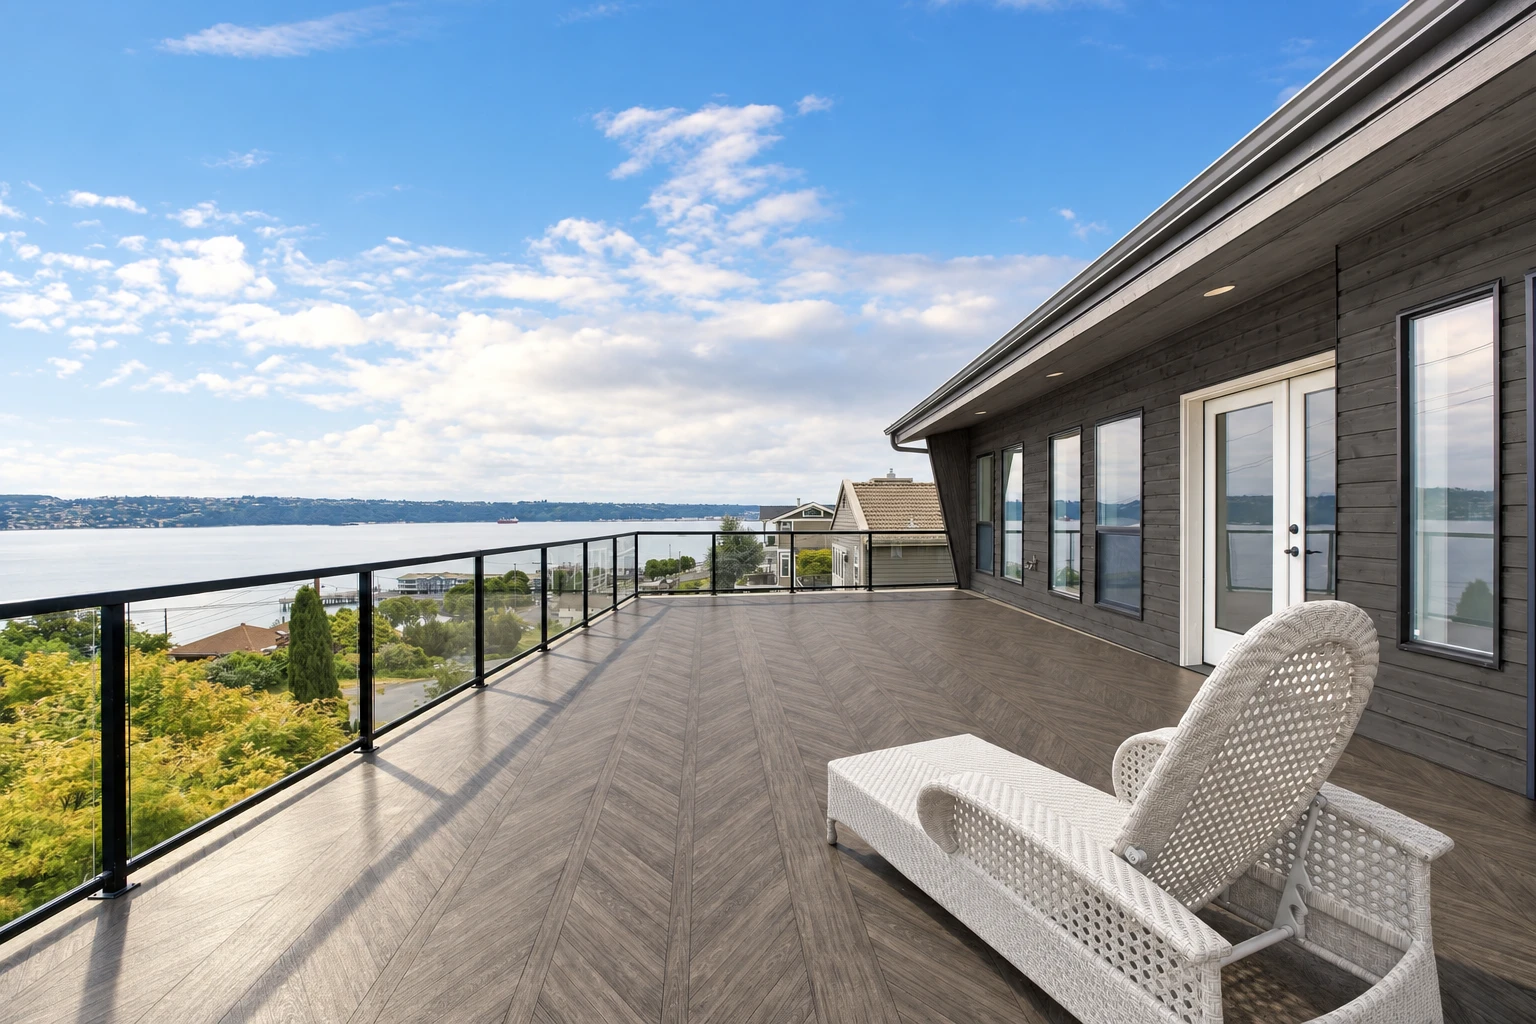
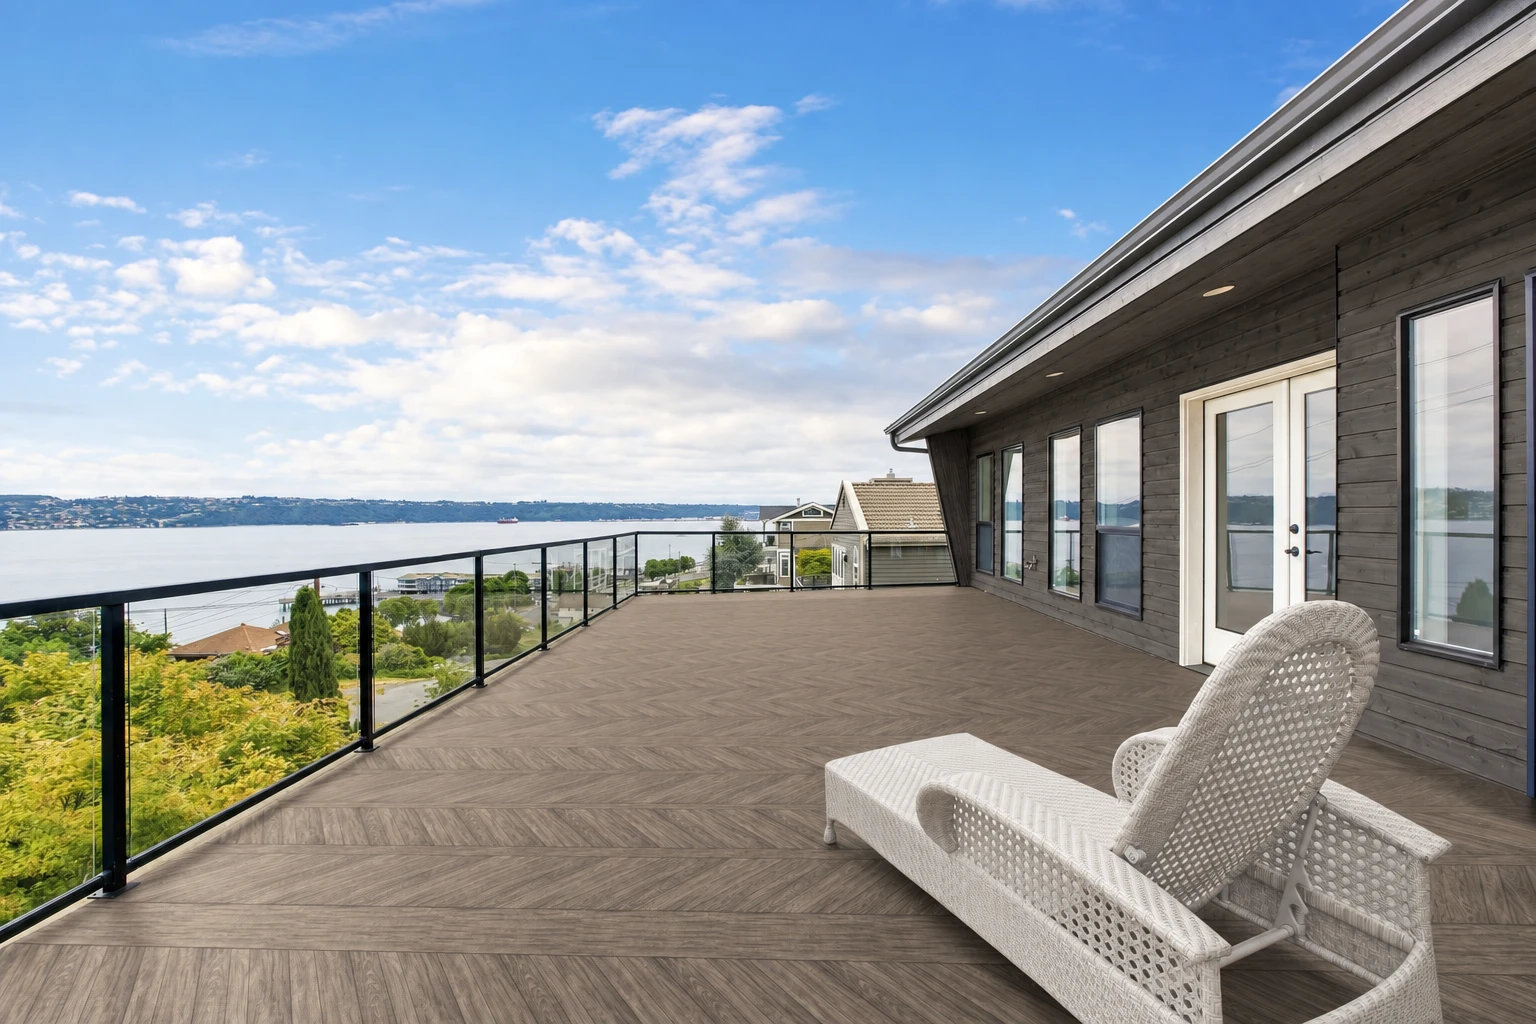
Oceanview and Glass rail woodgrains: planks follow the deck edges, matte finish
Per Mike: the pattern's perspective did not match both sides of the
deck, and the wood read as glossy. The floor calibration for these two
decks now derives the horizon from the deck edges' own vanishing point
(railing base and house wall for Oceanview, door track and front
railing for Glass rail), so the planks run parallel to both long edges
and converge where the edges do. Scale is anchored to the loungers
(6.5 ft), which also lands the camera height where a real estate shot
sits (4.8 ft and 3.6 ft). The relight prompt now asks for a matte,
embossed finish with no reflections and no added shadows.

diff --git a/src/config/stockCombos.ts b/src/config/stockCombos.ts
@@ -24,34 +24,34 @@ export const STOCK_COMBOS: Record<string, string> = {
   "backyard__speckled-stone-tan": "59fc5194",
   "backyard__urban-mist": "87d01fe4",
   "backyard__walnut": "6f6d2203",
-  "glassrail__boardwalk": "bd0bb81e",
-  "glassrail__driftwood": "cf025a2e",
+  "glassrail__boardwalk": "672c8a4b",
+  "glassrail__driftwood": "994d7349",
   "glassrail__granite-brown": "83e8ed15",
   "glassrail__granite-grey": "971dc38d",
   "glassrail__granite-silver": "a16ae4ee",
   "glassrail__granite-tan": "9b59c7d1",
-  "glassrail__hansberry": "dbf5072a",
-  "glassrail__ipe": "fd1940a9",
+  "glassrail__hansberry": "3dce68b8",
+  "glassrail__ipe": "b64adb77",
   "glassrail__speckled-stone-brown": "46c3ae1d",
   "glassrail__speckled-stone-grey": "57e46e3b",
   "glassrail__speckled-stone-silver": "31f2c8c2",
   "glassrail__speckled-stone-tan": "d1721dc4",
   "glassrail__urban-mist": "b2dc6d6e",
-  "glassrail__walnut": "58845875",
-  "lakeview__boardwalk": "cc9259db",
-  "lakeview__driftwood": "e62095ad",
+  "glassrail__walnut": "63dbccd6",
+  "lakeview__boardwalk": "65ba4a8c",
+  "lakeview__driftwood": "193bfff9",
   "lakeview__granite-brown": "41790e18",
   "lakeview__granite-grey": "85b632b1",
   "lakeview__granite-silver": "441a3a9b",
   "lakeview__granite-tan": "9da43966",
-  "lakeview__hansberry": "67bac585",
-  "lakeview__ipe": "88759edc",
+  "lakeview__hansberry": "c07c6b0a",
+  "lakeview__ipe": "8d7fe7b7",
   "lakeview__speckled-stone-brown": "4d1c6c58",
   "lakeview__speckled-stone-grey": "fd4ea3bb",
   "lakeview__speckled-stone-silver": "04b6a9ca",
   "lakeview__speckled-stone-tan": "b0de2616",
   "lakeview__urban-mist": "2354e021",
-  "lakeview__walnut": "8c68b8f3"
+  "lakeview__walnut": "389bc4fe"
 };
 
 export function hasStockCombo(layoutId: string, sku: string): boolean {
